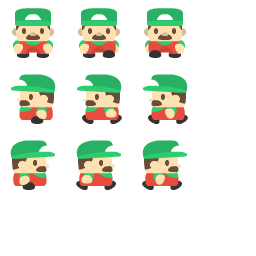
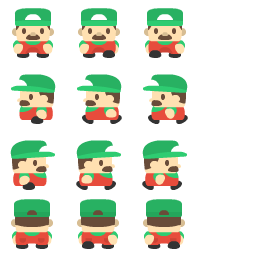
fd2

Changed region(s): [[0.0312, 0.75, 0.2188, 1.0], [0.2812, 0.75, 0.4688, 1.0], [0.5625, 0.75, 0.7188, 1.0]]

diff --git a/FD2/project/view.js b/FD2/project/view.js
@@ -99,7 +99,7 @@ class View {
 
     }
     //ф-я отрисовки карты
-    drawField(){
+    drawField(direction){
         const game = document.getElementById('sokoban');
         if(game && game.getContext('2d')){
         var ctx = game.getContext('2d');
@@ -112,9 +112,25 @@ class View {
         function paintCell(ctx, cell, x, y) {
         if(cell== player){
             ctx.drawImage(bg,x*cellSize,y*cellSize,cellSize,cellSize);
+            if(direction == 'right'){
+                ctx.drawImage(player, 130, 130, cellSize, cellSize,x*cellSize,y*cellSize,cellSize,cellSize);
+            }
+            else if(direction == 'left'){
+                ctx.drawImage(player, 130, 65, cellSize, cellSize,x*cellSize,y*cellSize,cellSize,cellSize);
+            }
+            else if(direction == 'down'){
+                ctx.drawImage(player, 70, 0, cellSize, cellSize,x*cellSize,y*cellSize,cellSize,cellSize);
+            }
+            else if(direction == 'up'){
+                ctx.drawImage(player, 130, 190, cellSize, cellSize,x*cellSize,y*cellSize,cellSize,cellSize);
+            }
+            else{
             //вырезка спрайта - пример
             // void ctx.drawImage(image, sx, sy, sWidth, sHeight, dx, dy, dWidth, dHeight);
             ctx.drawImage(player, 0, 0, cellSize, cellSize,x*cellSize,y*cellSize,cellSize,cellSize);
+            }
+            
+            
         }
         else if(cell == target){
             ctx.drawImage(bg,x*cellSize,y*cellSize,cellSize,cellSize);

diff --git a/FD2/project/levelData.js b/FD2/project/levelData.js
@@ -48,7 +48,7 @@ const map =  deepCopy(level1);
         }
       })
     })
-    console.log(countT);
+    // console.log(countT);
     if(countT.length < 1){
         console.log('все цели достигнуты')
     }
@@ -80,7 +80,7 @@ const getX = (x, direction, spaces = 1) => {
     return x
   }
   if (direction === 'right') {
-      
+
     return x + spaces
   }
   if (direction === 'left') {

diff --git a/FD2/project/model.js b/FD2/project/model.js
@@ -69,7 +69,7 @@ class Model {
       }
     else{
       map[getY(playerCoords.y, direction, 1)][getX(playerCoords.x, direction, 1)] = player;
-      this.view.drawField();
+      this.view.drawField(direction);
     }
      
     
